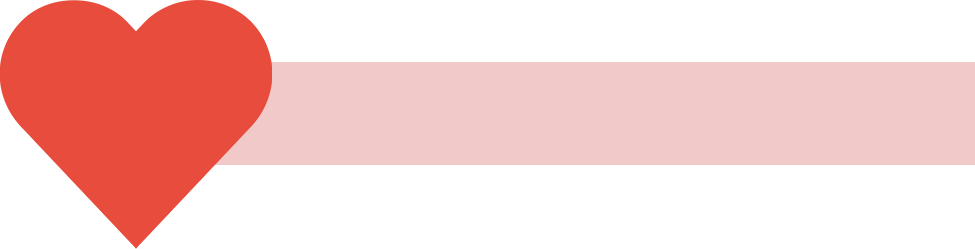
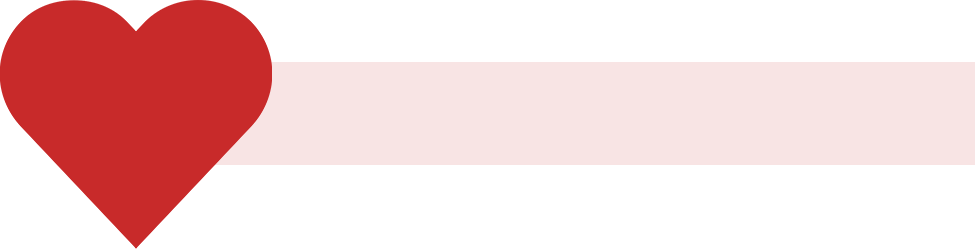
Healthbar overlays

diff --git a/PMMC/core/src/com/pmmc/app/screen/Level.java b/PMMC/core/src/com/pmmc/app/screen/Level.java
@@ -3,6 +3,7 @@ package com.pmmc.app.screen;
 import com.badlogic.gdx.Gdx;
 import com.badlogic.gdx.Input;
 import com.badlogic.gdx.graphics.OrthographicCamera;
+import com.badlogic.gdx.graphics.Texture;
 import com.badlogic.gdx.graphics.g2d.Sprite;
 import com.badlogic.gdx.math.Vector2;
 import com.badlogic.gdx.math.Vector3;
@@ -15,6 +16,7 @@ import com.badlogic.gdx.physics.box2d.PolygonShape;
 import com.badlogic.gdx.physics.box2d.World;
 import com.badlogic.gdx.scenes.scene2d.Stage;
 import com.badlogic.gdx.utils.viewport.ScreenViewport;
+import com.pmmc.app.AssetHandler;
 import com.pmmc.app.GameLauncher;
 import com.pmmc.app.character.B2dContactListener;
 import com.pmmc.app.character.CharacterAbstraction;
@@ -171,7 +173,67 @@ public abstract class Level extends AbstractScreen {
         if( player.getHealth() == 0) {
             player.updateFrame(false, false, true);
         }
+
         System.out.println("Player health: "+ player.getHealth() +" PLayer air: " + player.getAir() + " Player hunger: " + player.getHunger() + " Player toxicity: " + player.getToxicity());
+    }
+
+    public void renderHealthBars(){
+        drawHealthBar(player.getHealth(),
+                new Sprite(AssetHandler.assetManager.get(AssetHandler.healthBar, Texture.class)),
+                new Sprite(AssetHandler.assetManager.get(AssetHandler.healthBarEmpty, Texture.class)),
+                -Gdx.graphics.getWidth()*0.5f,
+                Gdx.graphics.getHeight()*0.38f
+        );
+        drawHealthBar(player.getAir(),
+                new Sprite(AssetHandler.assetManager.get(AssetHandler.airBar, Texture.class)),
+                new Sprite(AssetHandler.assetManager.get(AssetHandler.airBarEmpty, Texture.class)),
+                -Gdx.graphics.getWidth()*0.5f,
+                Gdx.graphics.getHeight()*0.25f
+        );
+        drawHealthBar(player.getHunger(),
+                new Sprite(AssetHandler.assetManager.get(AssetHandler.hungerBar, Texture.class)),
+                new Sprite(AssetHandler.assetManager.get(AssetHandler.hungerBarEmpty, Texture.class)),
+                Gdx.graphics.getWidth()*0.22f,
+                Gdx.graphics.getHeight()*0.38f
+        );
+        drawHealthBar(player.getToxicity(),
+                new Sprite(AssetHandler.assetManager.get(AssetHandler.toxicBar, Texture.class)),
+                new Sprite(AssetHandler.assetManager.get(AssetHandler.toxicBarEmpty, Texture.class)),
+                Gdx.graphics.getWidth()*0.22f,
+                Gdx.graphics.getHeight()*0.25f
+        );
+
+    }
+
+    private void drawHealthBar(int barValue, Sprite bar, Sprite emptyBar, float x_offset, float y_offset){
+        stage.act();
+        stage.getBatch().begin();
+        // Positioning
+        Vector3 barPosition = camera.position;
+        barPosition.set(barPosition.x + x_offset, barPosition.y + y_offset, 0);
+
+        switch (barValue){
+            case 1:
+                stage.getBatch().draw(bar, barPosition.x, barPosition.y, bar.getWidth()*0.22f, bar.getHeight()*0.7f);
+                break;
+            case 2:
+                stage.getBatch().draw(bar, barPosition.x, barPosition.y, bar.getWidth()*0.34f, bar.getHeight()*0.7f);
+                break;
+            case 3:
+                stage.getBatch().draw(bar, barPosition.x, barPosition.y, bar.getWidth()*0.46f, bar.getHeight()*0.7f);
+                break;
+            case 4:
+                stage.getBatch().draw(bar, barPosition.x, barPosition.y, bar.getWidth()*0.58f, bar.getHeight()*0.7f);
+                break;
+            case 5:
+                stage.getBatch().draw(bar, barPosition.x, barPosition.y, bar.getWidth()*0.7f, bar.getHeight()*0.7f);
+                break;
+            default:
+                break;
+        }
+        stage.getBatch().draw(emptyBar, barPosition.x, barPosition.y, bar.getWidth()*0.7f, bar.getHeight()*0.7f);
+        stage.getBatch().end();
+        stage.draw();
     }
 
     private void preyUpdate(float deltaTime){

diff --git a/PMMC/core/src/com/pmmc/app/AssetHandler.java b/PMMC/core/src/com/pmmc/app/AssetHandler.java
@@ -33,6 +33,15 @@ public class AssetHandler {
             polarBearSprite = "polar_bear.png",
 
     //polarbear
+            healthBarEmpty = "player-bars/health/healthbar_0.png",
+            healthBar = "player-bars/health/health_bar.png",
+            airBarEmpty = "player-bars/air/air_0.png",
+            airBar = "player-bars/air/air_bar.png",
+            hungerBarEmpty = "player-bars/food/hunger_0.png",
+            hungerBar = "player-bars/food/hunger_bar.png",
+            toxicBarEmpty = "player-bars/toxic/toxic_0.png",
+            toxicBar = "player-bars/toxic/toxic_bar.png",
+
 //            waterWithSand = "water-with-sand.png",
             waterWithSand = "ocean-2.png",
             blur = "water-blur.png",
@@ -73,6 +82,15 @@ public class AssetHandler {
         assetManager.load(killerWhaleSprite, Texture.class);
         assetManager.load(blueWhaleSprite, Texture.class);
         assetManager.load(polarBearSprite, Texture.class);
+
+        assetManager.load(healthBar, Texture.class);
+        assetManager.load(healthBarEmpty, Texture.class);
+        assetManager.load(airBar, Texture.class);
+        assetManager.load(airBarEmpty, Texture.class);
+        assetManager.load(hungerBar, Texture.class);
+        assetManager.load(hungerBarEmpty, Texture.class);
+        assetManager.load(toxicBar, Texture.class);
+        assetManager.load(toxicBarEmpty, Texture.class);
 
         assetManager.load(testbear, Texture.class);
         assetManager.load(waterWithSand,Texture.class);

diff --git a/PMMC/core/src/com/pmmc/app/screen/PolarBearLevel.java b/PMMC/core/src/com/pmmc/app/screen/PolarBearLevel.java
@@ -95,6 +95,7 @@ public class PolarBearLevel extends Level {
 
         game.batch.begin();
         renderPlayer2D();
+        renderHealthBars();
         game.batch.end();
 //        renderBackground(blur);
     }
